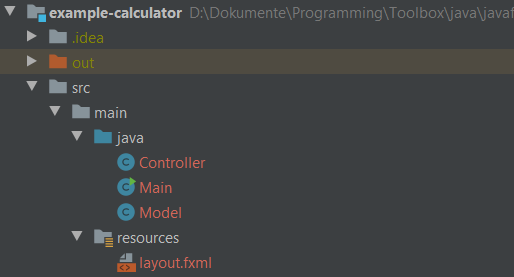
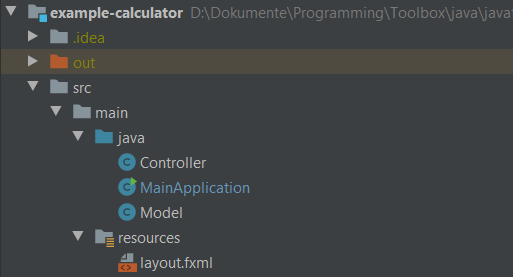
JavaFX-Dokumentation leicht überarbeitet, Beispiel eingebunden

diff --git a/java/javafx/example-calculator/src/main/java/MainApplication.java b/java/javafx/example-calculator/src/main/java/MainApplication.java
@@ -11,7 +11,7 @@ import javafx.stage.Stage;
 public class MainApplication extends Application {
 
     /**
-     * In dieser Methode könnte man Code zur Initialisierung der GUI/Anwendun ausführen. init() wird immer ausgeführt,
+     * In dieser Methode könnte man Code zur Initialisierung der GUI/Anwendung ausführen. init() wird immer ausgeführt,
      * bevor die Anwendung mit start() gestartet wird.
      */
     @Override

diff --git a/java/javafx/README.md b/java/javafx/README.md
@@ -5,7 +5,7 @@
 
 JavaFX ist die Standard-Library zum Erstellen von GUIs in Java und hat die ältere *Swing*-Library abgelöst. JavaFX sollte standardmäßig in jedem neueren JDK enthalten sein.
 
-Dieses Dokument erklärt die wichtigsten Punkte von JavaFX anhand einer einfachen MVC-Anwendung. Der komplette Code ist [hier](TODO) verfügbar.
+Dieses Dokument erklärt die wichtigsten Punkte von JavaFX anhand einer einfachen MVC-Anwendung. Der komplette Code ist [hier](example-calculator/) verfügbar.
 
 
 
@@ -68,6 +68,12 @@ public void start(Stage primaryStage) throws Exception{
 ``````
 
 Zum Starten der Anwendung wird in einer `main()`-Methode (die auch zur Anwendungsklasse gehören kann) die statische Methode `launch()` der abstrakten `Application`-Klasse aufgerufen. Diese Methode erstellt eine Instanz der Anwendungsklasse, ruft die `start()`-Methode auf und startet damit die Anwendung. <sup>[[1]](#Quellen)</sup>
+
+``````java
+public static void main(String args[]) {
+    launch(args);
+}
+``````
 
 
 
